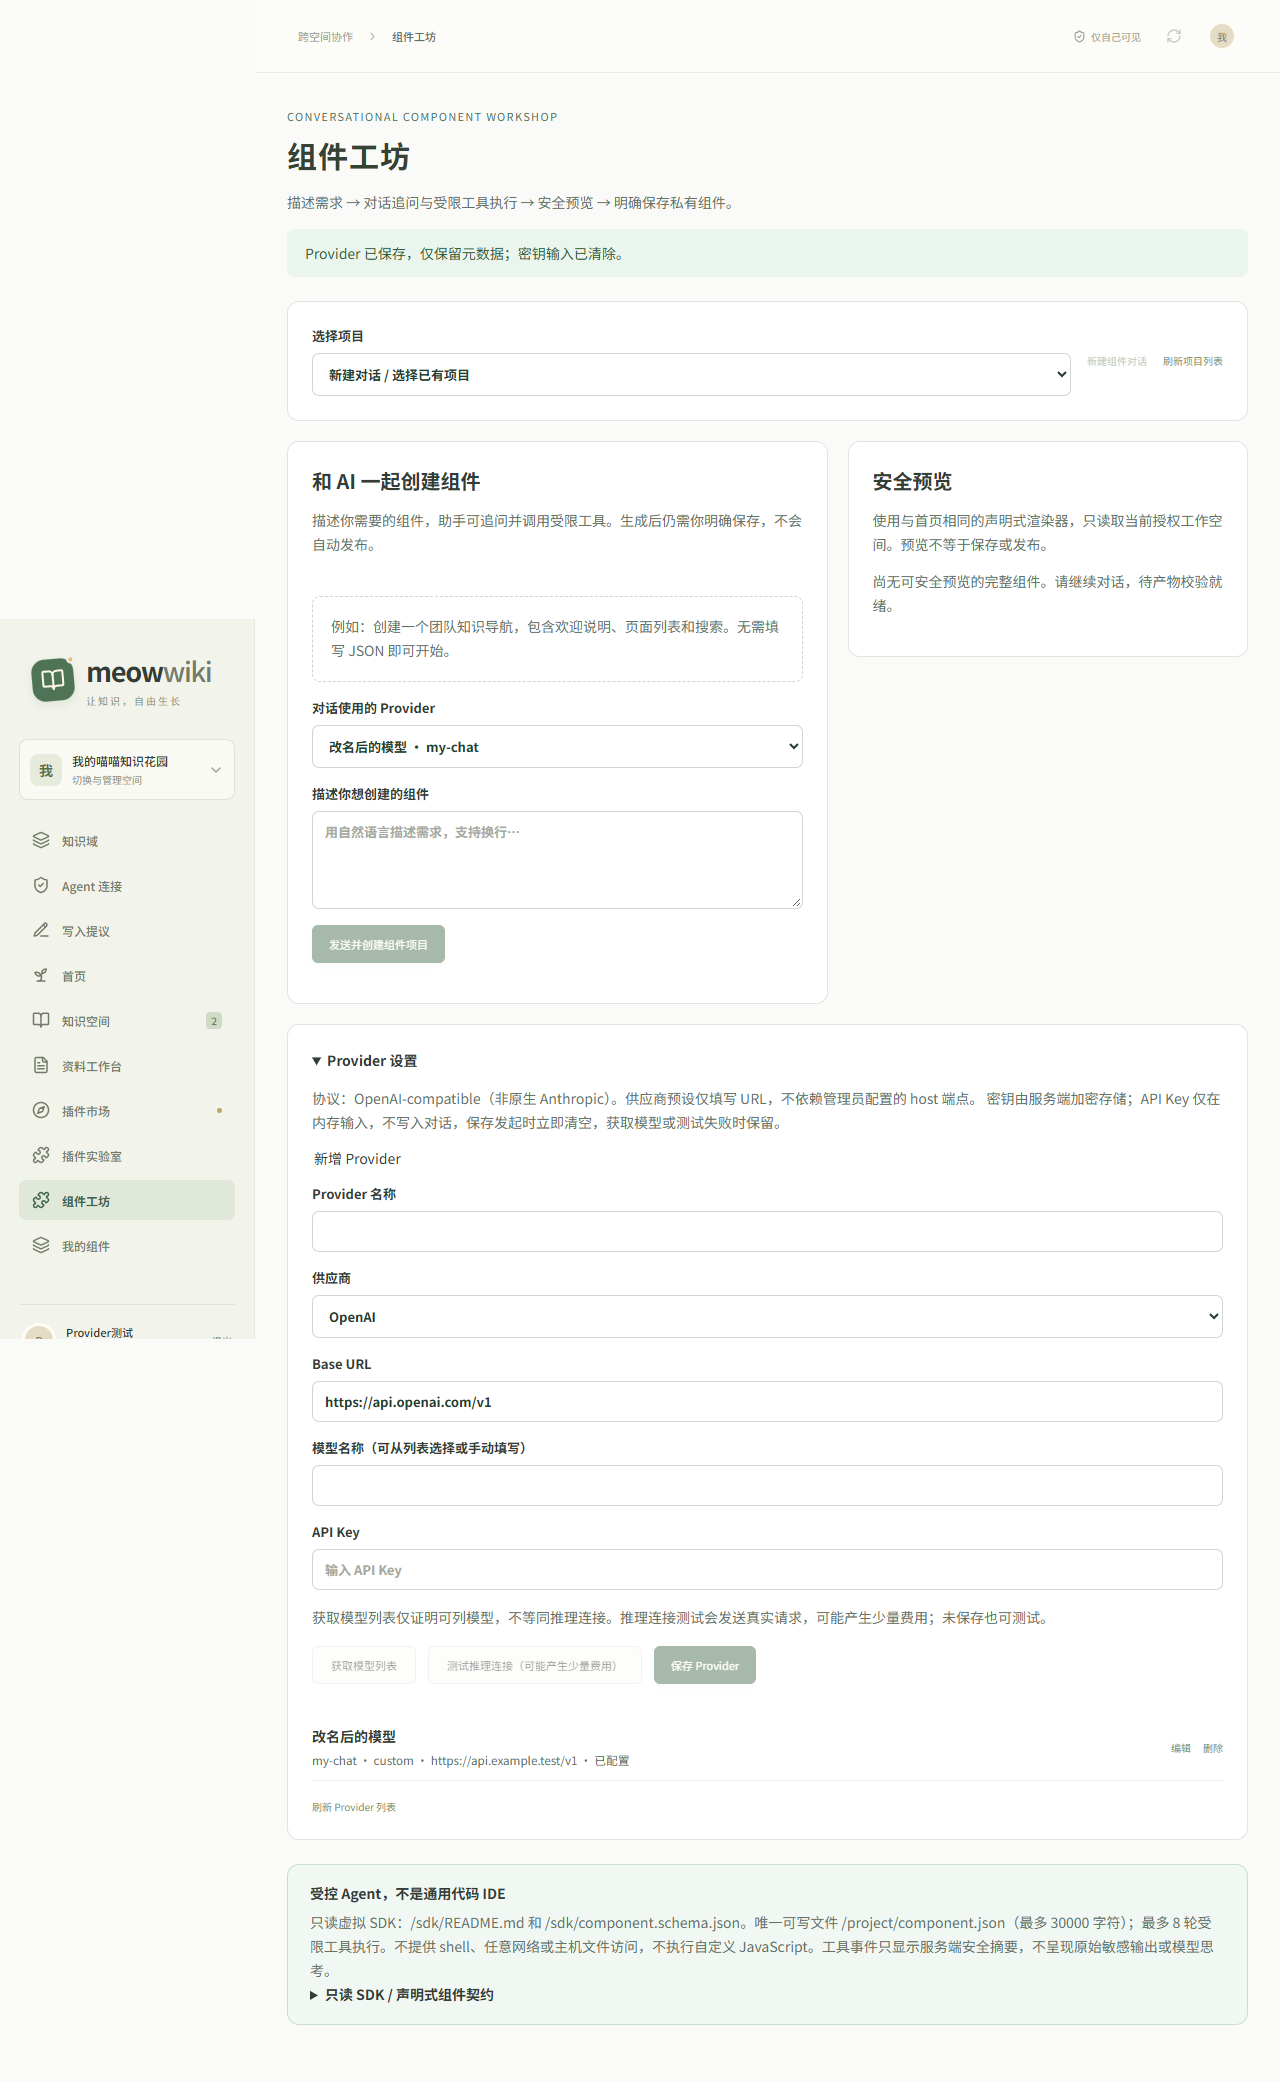
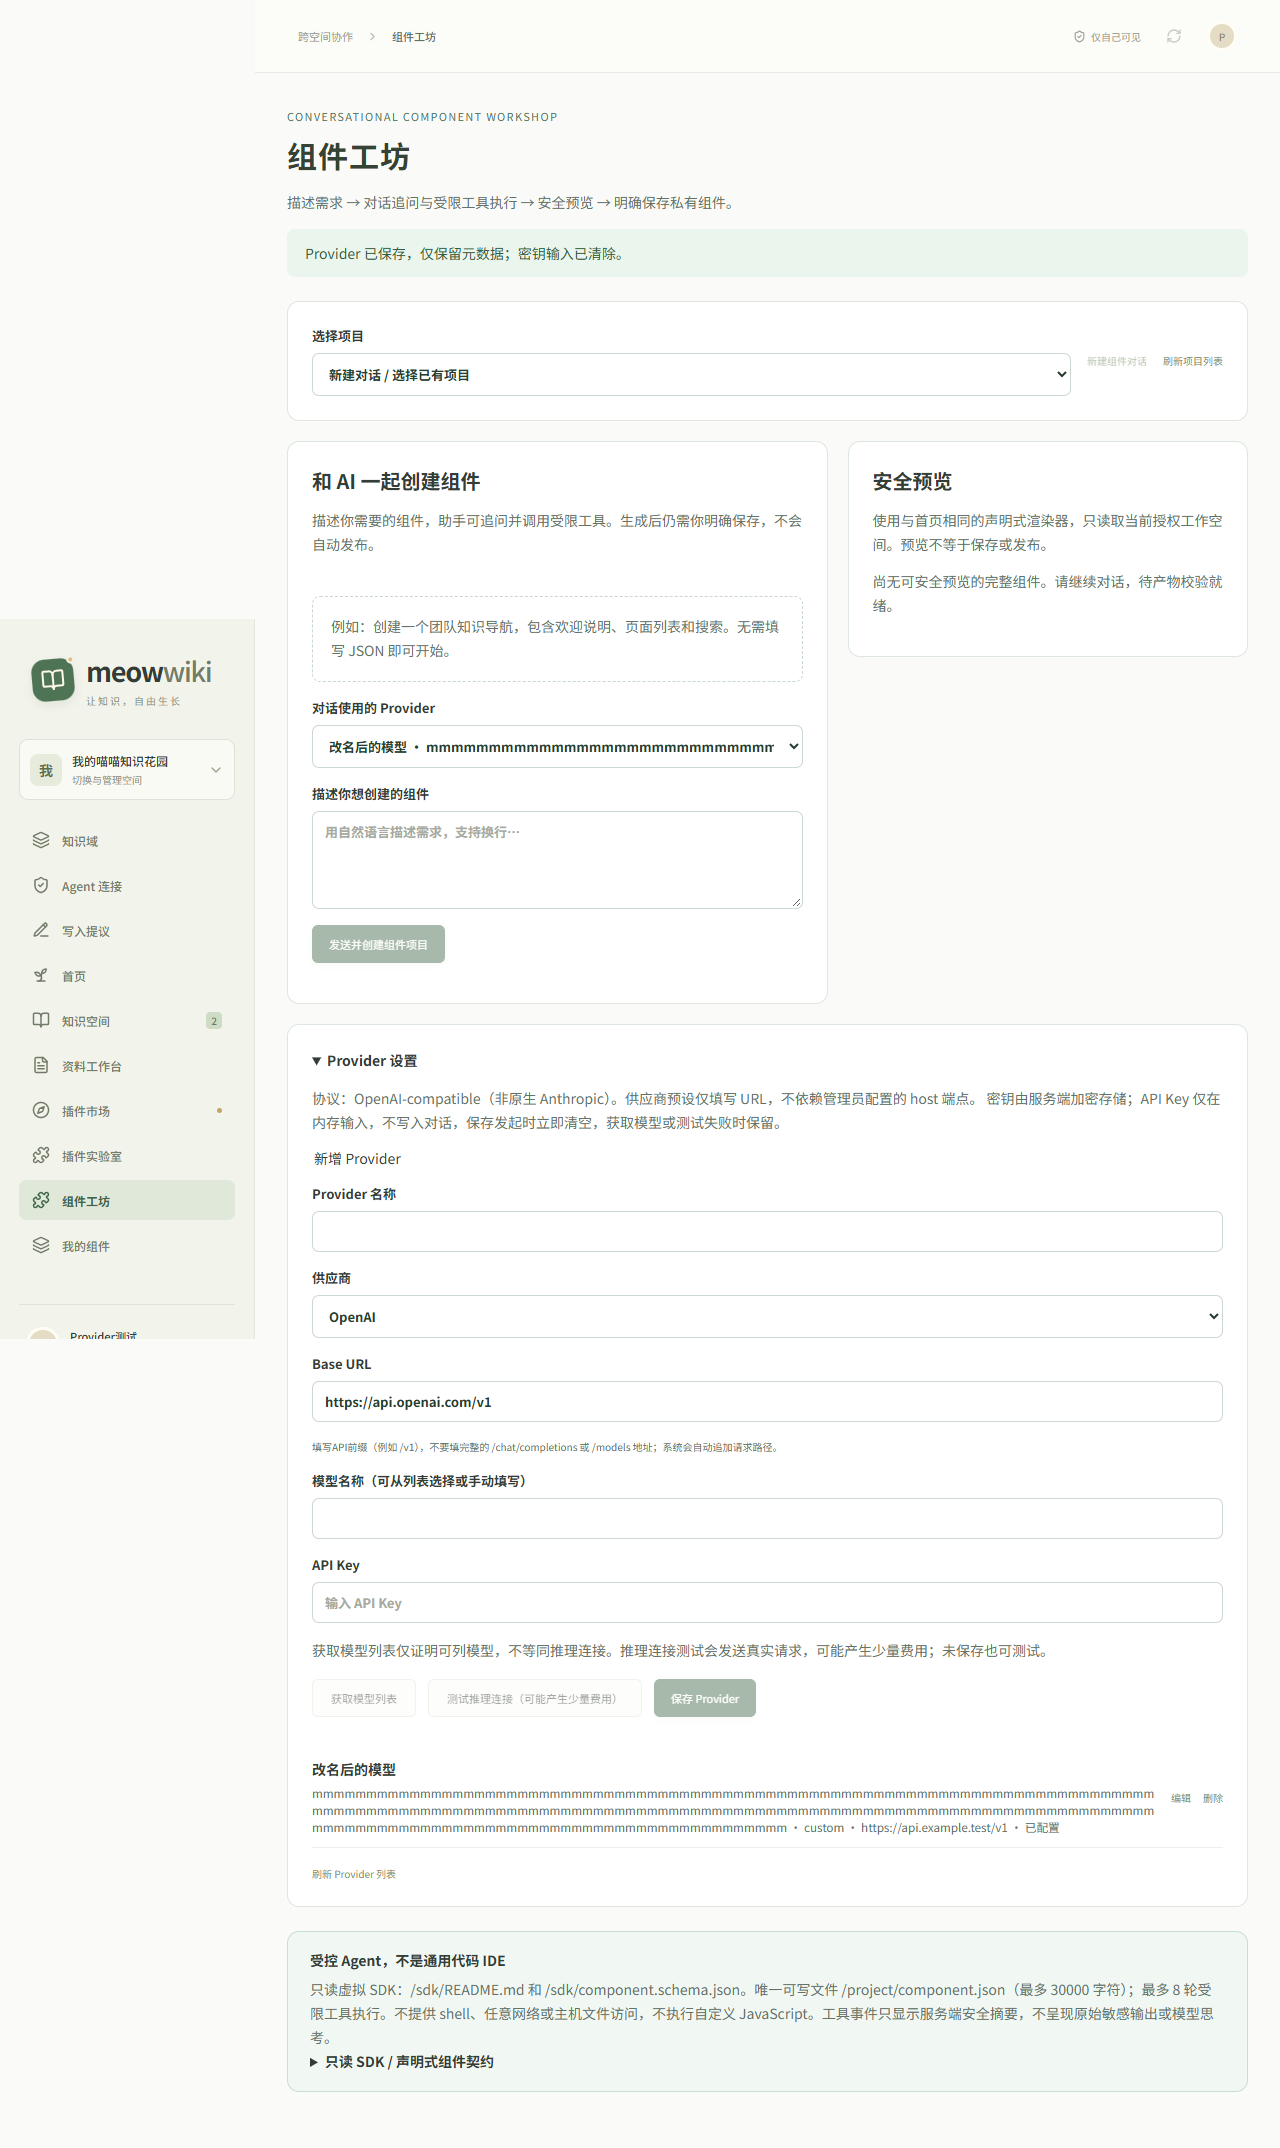
fix: align Provider input contracts and diagnose rejected configuration

diff --git a/web/features/workshop/ProviderSettings.tsx b/web/features/workshop/ProviderSettings.tsx
@@ -1,5 +1,5 @@
 import { useEffect, useState, type FormEvent } from 'react';
-import { api } from '../../shared/api';
+import { api, ApiError } from '../../shared/api';
 import { providerMetadata, type Config, type Provider, type ProviderVendor } from './types';
 
 type Props = {
@@ -77,7 +77,7 @@ export default function ProviderSettings({
     return {
       vendor,
       baseURL: baseURL.trim(),
-      ...(apiKey.trim() ? { apiKey } : {}),
+      ...(apiKey.trim() ? { apiKey: apiKey.trim() } : {}),
       ...(editing ? { providerId: editing.id } : {}),
     };
   }
@@ -130,13 +130,51 @@ export default function ProviderSettings({
   function save(event: FormEvent) {
     event.preventDefault();
     if (!credentialsReady || !label.trim() || !model.trim()) return;
+    const key = apiKey.trim();
+    if (label.trim().length > 100 || model.trim().length > 200 || baseURL.trim().length > 2048) {
+      void action('provider-input', async () => {
+        throw new Error('配置未发送：名称最多100字符、模型ID最多200字符、Base URL最多2048字符。');
+      });
+      return;
+    }
+    if (key && (!/^[\x21-\x7e]+$/.test(key) || /^Bearer\s/i.test(key) || /^['"]|['"]$/.test(key))) {
+      void action('provider-input', async () => {
+        throw new Error(
+          '配置未发送：请只粘贴API Key本身，不含Bearer前缀、引号、空格或换行。密钥输入已保留。',
+        );
+      });
+      return;
+    }
+    let endpoint: URL;
+    try {
+      endpoint = new URL(baseURL.trim());
+    } catch {
+      void action('provider-input', async () => {
+        throw new Error('配置未发送：Base URL不是有效地址。');
+      });
+      return;
+    }
+    if (
+      endpoint.protocol !== 'https:' ||
+      endpoint.username ||
+      endpoint.password ||
+      endpoint.search ||
+      endpoint.hash
+    ) {
+      void action('provider-input', async () => {
+        throw new Error(
+          '配置未发送：自定义Base URL需要HTTPS，不含账号密码、查询参数或#片段；本机HTTP请使用受信部署配置。',
+        );
+      });
+      return;
+    }
     void action('provider', async (signal) => {
       const payload = {
         label: label.trim(),
         vendor,
         baseURL: baseURL.trim(),
         model: model.trim(),
-        ...(apiKey.trim() ? { apiKey } : {}),
+        ...(apiKey.trim() ? { apiKey: apiKey.trim() } : {}),
       };
       // Clear at submission, including failures. Never restore secrets from a response.
       setApiKey('');
@@ -155,8 +193,16 @@ export default function ProviderSettings({
         onSelected(record.id);
         reset();
         onNotice('Provider 已保存，仅保留元数据；密钥输入已清除。');
-      } catch {
+      } catch (error) {
         if (signal.aborted) return;
+        if (error instanceof ApiError && error.status === 400)
+          throw new Error(
+            '保存被拒绝（HTTP 400）：请检查名称/模型长度、API Key格式以及Base URL。地址必须是HTTPS API前缀，不能包含密钥参数；本次未保存，密钥输入已清除。',
+          );
+        if (error instanceof ApiError && error.status === 409)
+          throw new Error(
+            '保存被拒绝（HTTP 409）：可能已达到5个Provider上限，请核对列表后删除不再使用的配置。',
+          );
         throw new Error(
           'Provider 保存未确认。密钥输入已清除，请刷新 Provider 列表核对后再试；不会展示可能包含密钥的服务错误。',
         );
@@ -180,7 +226,7 @@ export default function ProviderSettings({
               value={label}
               onChange={(e) => setLabel(e.target.value)}
               required
-              maxLength={120}
+              maxLength={100}
             />
           </label>
           <label>
@@ -206,9 +252,14 @@ export default function ProviderSettings({
               onChange={(e) => setBaseURL(e.target.value)}
               required
               placeholder="https://example.com/v1"
+              maxLength={2048}
               autoComplete="off"
             />
           </label>
+          <p className="form-hint">
+            填写API前缀（例如 /v1），不要填完整的 /chat/completions 或 /models
+            地址；系统会自动追加请求路径。
+          </p>
           <label>
             模型名称（可从列表选择或手动填写）
             <input

diff --git a/src/modules/workshop/providers.ts b/src/modules/workshop/providers.ts
@@ -2,6 +2,7 @@ import { createCipheriv, createDecipheriv, createHash, randomBytes, randomUUID }
 import type { DatabaseSync } from 'node:sqlite';
 import { z } from 'zod';
 import { normalizeProviderEndpoint } from './provider-network.ts';
+import { providerKeySchema, providerInputError } from './provider-input.ts';
 
 export class ProviderError extends Error {
   constructor(
@@ -17,12 +18,8 @@ const saveSchema = z
   .object({
     label: z.string().trim().min(1).max(100),
     endpointId: z.string().min(1).max(100),
-    model: z.string().trim().min(1).max(100),
-    apiKey: z
-      .string()
-      .min(1)
-      .max(500)
-      .refine((key) => key.trim().length > 0),
+    model: z.string().trim().min(1).max(200),
+    apiKey: providerKeySchema,
   })
   .strict();
 
@@ -149,7 +146,7 @@ export class ProviderVault {
   save(caller: string, input: SaveProviderInput): ProviderMetadata {
     this.owner(caller);
     const parsed = saveSchema.safeParse(input);
-    if (!parsed.success) throw new ProviderError(400, 'Invalid provider input');
+    if (!parsed.success) throw new ProviderError(400, providerInputError(parsed.error).message);
     const values = parsed.data;
     if (!this.endpoints.has(values.endpointId))
       throw new ProviderError(400, 'Unknown provider endpoint');
@@ -202,7 +199,10 @@ export class ProviderVault {
       if (normalizedEndpoint !== undefined && normalizedEndpoint !== endpoint) throw new Error();
       return endpoint;
     } catch {
-      throw new ProviderError(400, 'Invalid provider endpoint');
+      throw new ProviderError(
+        400,
+        'Base URL必须是公开HTTPS的API前缀，不含账号密码、查询参数或#片段；本机HTTP需宿主配置',
+      );
     }
   }
 
@@ -265,7 +265,7 @@ export class ProviderVault {
   ): ProviderMetadata {
     this.owner(caller);
     const parsed = customSchema.safeParse(input);
-    if (!parsed.success) throw new ProviderError(400, 'Invalid provider input');
+    if (!parsed.success) throw new ProviderError(400, providerInputError(parsed.error).message);
     const values = parsed.data;
     const settings = {
       endpoint: this.customEndpoint(values.baseURL, normalizedEndpoint),
@@ -301,7 +301,7 @@ export class ProviderVault {
     this.owner(caller);
     if (typeof id !== 'string' || !id) throw notFound();
     const parsed = updateCustomSchema.safeParse(input);
-    if (!parsed.success) throw new ProviderError(400, 'Invalid provider input');
+    if (!parsed.success) throw new ProviderError(400, providerInputError(parsed.error).message);
     const values = parsed.data;
     const settings = { endpoint: this.customEndpoint(values.baseURL), vendor: values.vendor };
     return this.transaction(() => {

diff --git a/tests/provider-input-regression.test.ts b/tests/provider-input-regression.test.ts
@@ -1,0 +1,48 @@
+import { test } from 'node:test';
+import assert from 'node:assert/strict';
+import { Store } from '../src/store.ts';
+import { ProviderVault } from '../src/modules/workshop/providers.ts';
+import { providerOperationSchema } from '../src/modules/workshop/provider-operations.ts';
+test('Provider model and endpoint limits align and keys normalize or reject unusable header input', () => {
+  const store = new Store(':memory:');
+  try {
+    store.db.exec("CREATE TABLE user(id TEXT PRIMARY KEY);INSERT INTO user VALUES('owner')");
+    const vault = new ProviderVault(store.db, 'input-test-master-longer-than-32-characters', {});
+    const value = {
+      label: 'test',
+      vendor: 'custom' as const,
+      baseURL: 'https://api.example.test/v1',
+      model: 'm'.repeat(200),
+      apiKey: '  fake-provider-key  ',
+    };
+    const p = vault.saveCustom('owner', value);
+    assert.equal(vault.resolve('owner', p.id).apiKey, 'fake-provider-key');
+    assert.equal(
+      providerOperationSchema.parse({
+        vendor: value.vendor,
+        baseURL: value.baseURL,
+        model: value.model,
+        apiKey: value.apiKey,
+      }).apiKey,
+      'fake-provider-key',
+    );
+    assert.throws(
+      () => vault.saveCustom('owner', { ...value, label: 'x'.repeat(101) }),
+      /Provider名称/,
+    );
+    for (const key of ['fake\nkey', 'Bearer fake-key', '"fake-key"'])
+      assert.throws(() => vault.saveCustom('owner', { ...value, apiKey: key }), /API Key/);
+    const longURL = 'https://api.example.test/' + 'a'.repeat(1980);
+    assert.ok(longURL.length > 2000 && longURL.length < 2048);
+    assert.ok(
+      providerOperationSchema.safeParse({
+        vendor: 'custom',
+        baseURL: longURL,
+        model: 'm',
+        apiKey: 'fake',
+      }).success,
+    );
+  } finally {
+    store.close();
+  }
+});

diff --git a/e2e/provider-settings.spec.ts b/e2e/provider-settings.spec.ts
@@ -14,7 +14,15 @@ test('user can configure custom Provider without host endpoints and edit metadat
   await page.getByRole('combobox', { name: '供应商', exact: true }).selectOption('custom');
   await page.getByLabel(/Base URL/).fill('https://api.example.test/v1');
   await page.getByRole('combobox', { name: /模型名称/ }).fill('my-chat');
-  await page.getByLabel('API Key', { exact: true }).fill('browser-test-only-provider-key');
+  await page.getByLabel('Provider 名称', { exact: true }).fill('x'.repeat(120));
+  await expect(page.getByLabel('Provider 名称', { exact: true })).toHaveValue('x'.repeat(100));
+  await page.getByLabel('Provider 名称', { exact: true }).fill('我的模型');
+  await page.getByRole('combobox', { name: /模型名称/ }).fill('m'.repeat(200));
+  await page.getByLabel('API Key', { exact: true }).fill('Bearer bad-key');
+  await page.getByRole('button', { name: '保存 Provider', exact: true }).click();
+  await expect(page.getByText(/配置未发送：请只粘贴API Key/)).toBeVisible();
+  await expect(page.getByLabel('API Key', { exact: true })).toHaveValue('Bearer bad-key');
+  await page.getByLabel('API Key', { exact: true }).fill('  browser-test-only-provider-key  ');
   await page.getByRole('button', { name: '保存 Provider', exact: true }).click();
   await expect(page.getByLabel('API Key', { exact: true })).toHaveValue('');
   await page.getByText('Provider 设置', { exact: true }).click();

diff --git a/src/modules/workshop/provider-input.ts b/src/modules/workshop/provider-input.ts
@@ -1,0 +1,28 @@
+import { z } from 'zod';
+export const providerKeySchema = z
+  .string()
+  .trim()
+  .min(1)
+  .max(500)
+  .refine(
+    (key) => /^[\x21-\x7e]+$/.test(key) && !/^Bearer\s/i.test(key) && !/^['"]|['"]$/.test(key),
+    '请只粘贴API Key本身，不含Bearer前缀、引号、空格或换行',
+  );
+export function providerInputError(error: z.ZodError): Error & { statusCode: number } {
+  const labels: Record<string, string> = {
+    label: 'Provider名称',
+    model: '模型ID',
+    apiKey: 'API Key',
+    baseURL: 'Base URL',
+    vendor: '供应商',
+  };
+  const fields = [
+    ...new Set(error.issues.map((issue) => labels[String(issue.path[0])] ?? '配置字段')),
+  ];
+  return Object.assign(
+    new Error(
+      `${fields.join('、')}格式不正确：名称最多100字符、模型ID最多200字符，API Key须为不含前缀/引号的可打印密钥；请检查对应字段`,
+    ),
+    { statusCode: 400 },
+  );
+}

diff --git a/src/modules/workshop/provider-operations.ts b/src/modules/workshop/provider-operations.ts
@@ -1,12 +1,13 @@
 import { z } from 'zod';
 import type { ProviderVault } from './providers.ts';
 import { ProviderNetwork, normalizeProviderEndpoint } from './provider-network.ts';
+import { providerKeySchema } from './provider-input.ts';
 export const providerOperationSchema = z
   .object({
     vendor: z.enum(['openai', 'deepseek', 'custom']),
-    baseURL: z.string().min(1).max(2000),
-    apiKey: z.string().max(500).optional(),
-    model: z.string().max(100).optional(),
+    baseURL: z.string().min(1).max(2048),
+    apiKey: providerKeySchema.optional(),
+    model: z.string().trim().max(200).optional(),
     providerId: z.string().uuid().optional(),
   })
   .strict();

diff --git a/tests/workshop-providers.test.ts b/tests/workshop-providers.test.ts
@@ -191,7 +191,7 @@ test('strict bounded input rejects URL/owner injection and enforces five provide
       { label: 'x'.repeat(101) },
       { model: '' },
       { model: ' ' },
-      { model: 'x'.repeat(101) },
+      { model: 'x'.repeat(201) },
       { apiKey: '' },
       { apiKey: ' ' },
       { apiKey: 'x'.repeat(501) },

diff --git a/docs/provider-400-regression.md b/docs/provider-400-regression.md
@@ -1,0 +1,9 @@
+# 无真实凭据的Provider 400诊断
+
+2026-11-12。用户报告添加失败，本轮不读取/复制助手或用户真实模型凭据，不访问真实provider。
+
+已确认独立缺陷：UI名称120/backend100、模型UI/发现200/backend100，Base URL保存2048/操作2000；key外围空白原样进Bearer、内嵌换行可保存；本地400被统一提示保存未确认且清key。不能证明其中某项就是用户这次具体400根因。
+
+修复：名称统一100、模型统一200、URL2048；key trim并拒非可打印/空格/换行/Bearer前缀/外引号；保留ProviderError类型和400状态，返回字段名白名单错误不回显值。前端校验失败请求不发送且保留key，已收到400/409给可操作固定说明，网络未知仍提示核对列表。明确Base URL是API前缀不含/chat/completions。
+
+160项默认测试通过，类型/构建/格式通过；浏览器假key验证名称截断、200字符模型可保存、Bearer前缀本地阻断并保留输入、trim后保存与编辑不回填key。真实provider连通性不在本轮验证范围。
